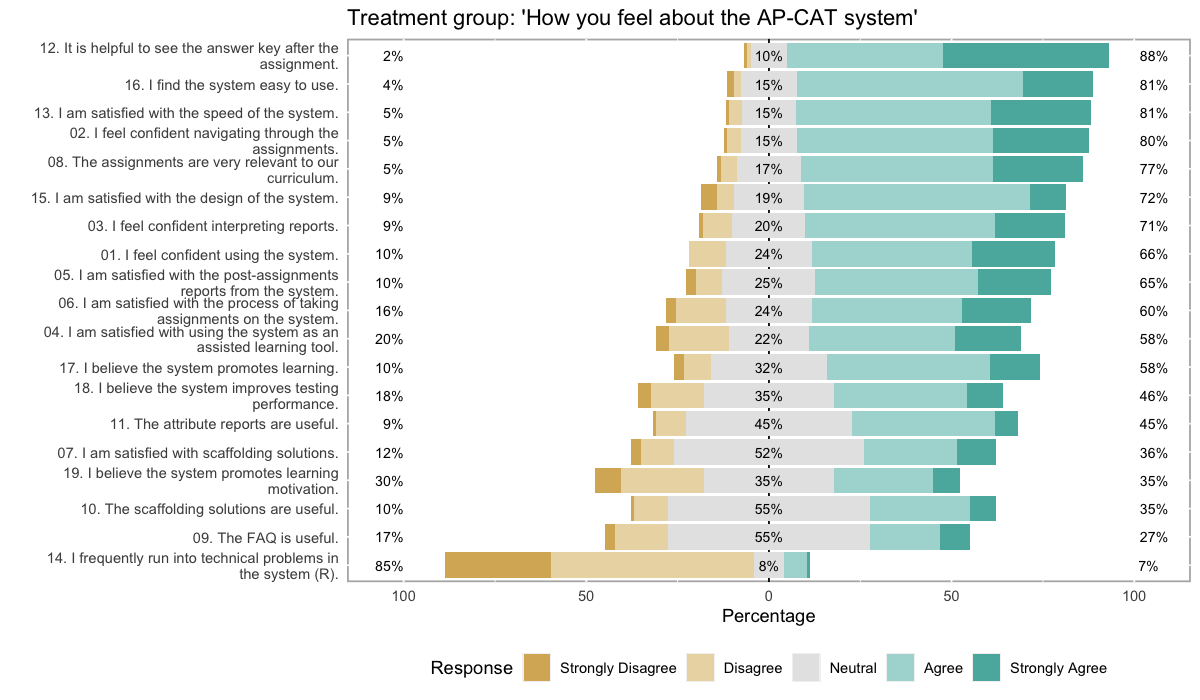
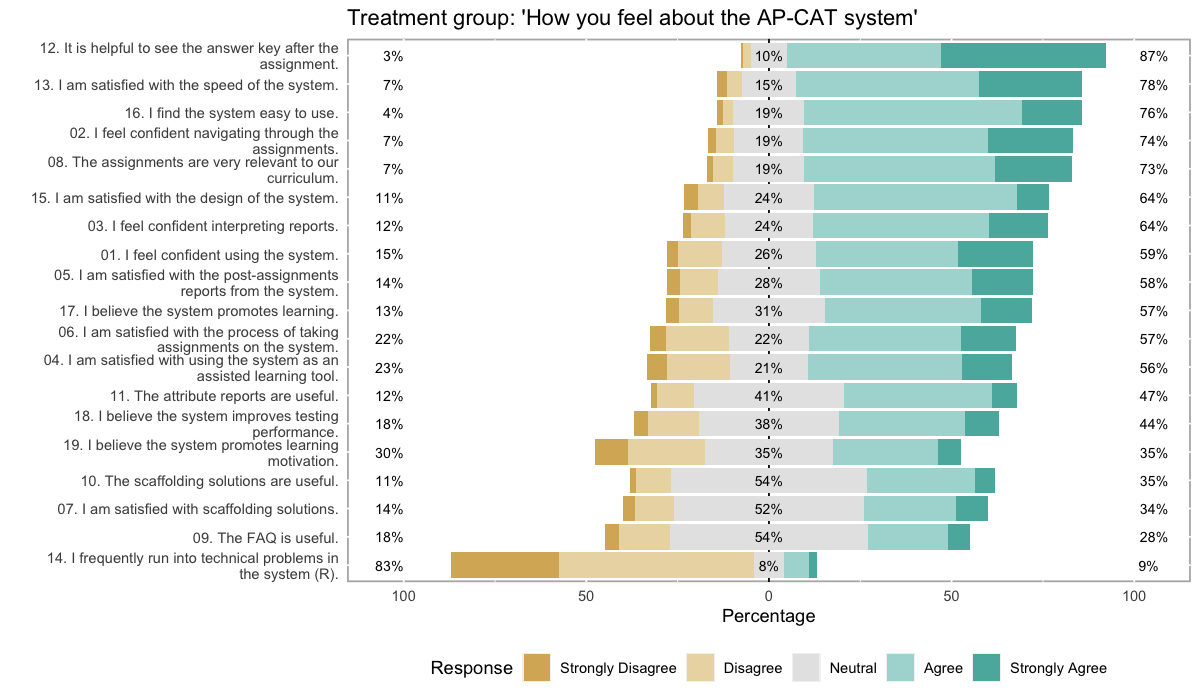
comments were added to script

diff --git a/README.md b/README.md
@@ -32,7 +32,13 @@ Among a number of surveys, a User Experience was developed and assigned to each 
 || 18 |            "I believe the   system improves testing performance."          |
 || 19 |            "I believe the   system promotes learning motivation."          |
 
-## 
+## Data Pre-processing
+
+A total of 235 students were given the userx survey. Of the total, 36 students did not answer the survey, and 19 were removed due to unreliable responses (long string of the same answer category). After removal of the data, a sample of $N=180$ students were used for these analyses. 
+
+Finally, the data was changed from numerical (1,2,3,4,5) to categorical values ("Strongly Disagree", "Disagree", "Neutral", "Agree", "Strongly Agree"). One reverse-coded item was present, but kept at the original scale for the purposes data visualization.
+
+
 
 ## 1. Are students in the treatment group satisfied with the system?
 
